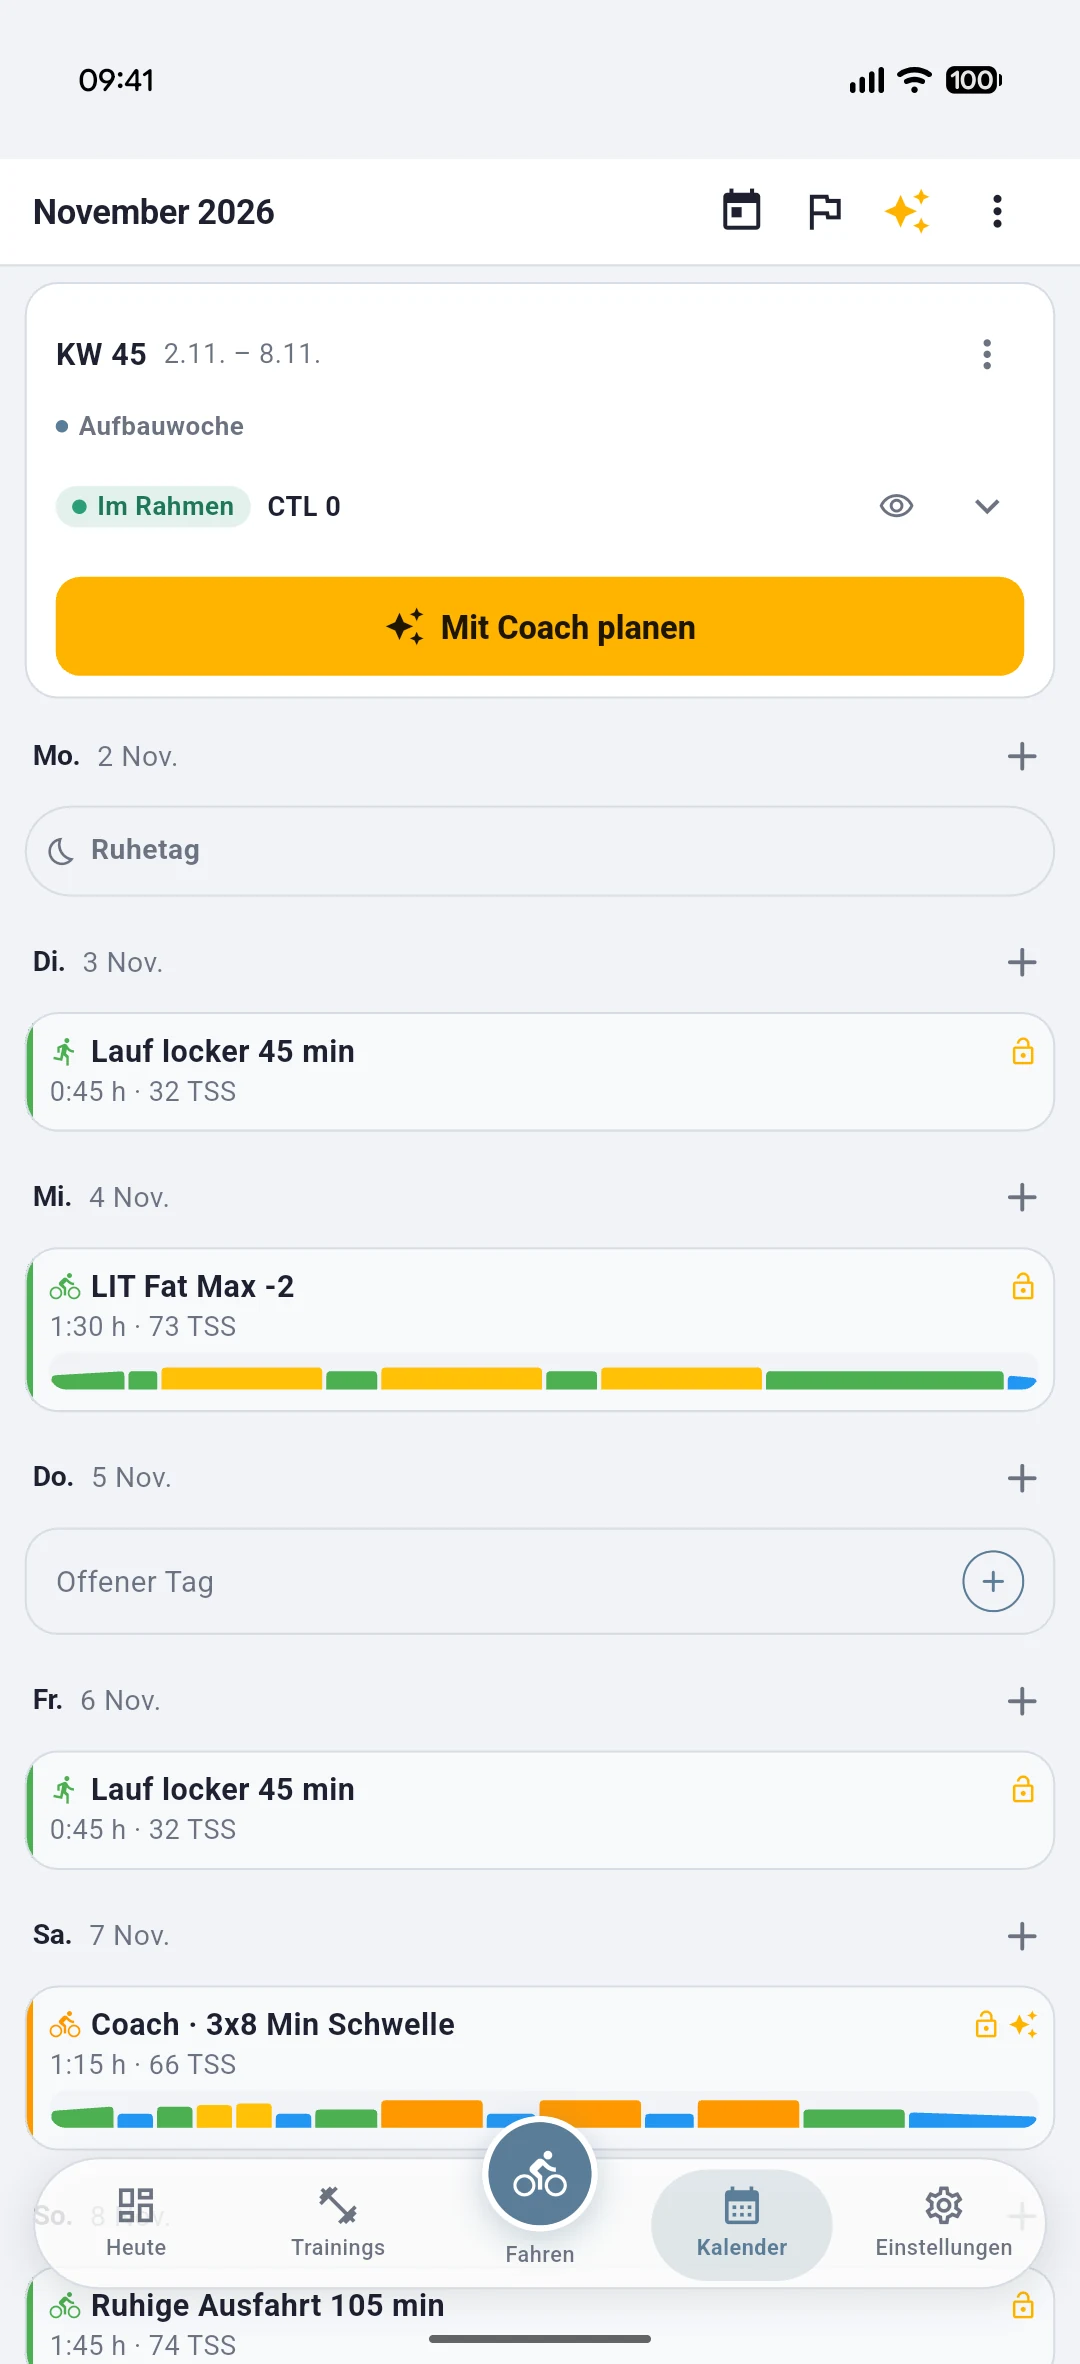
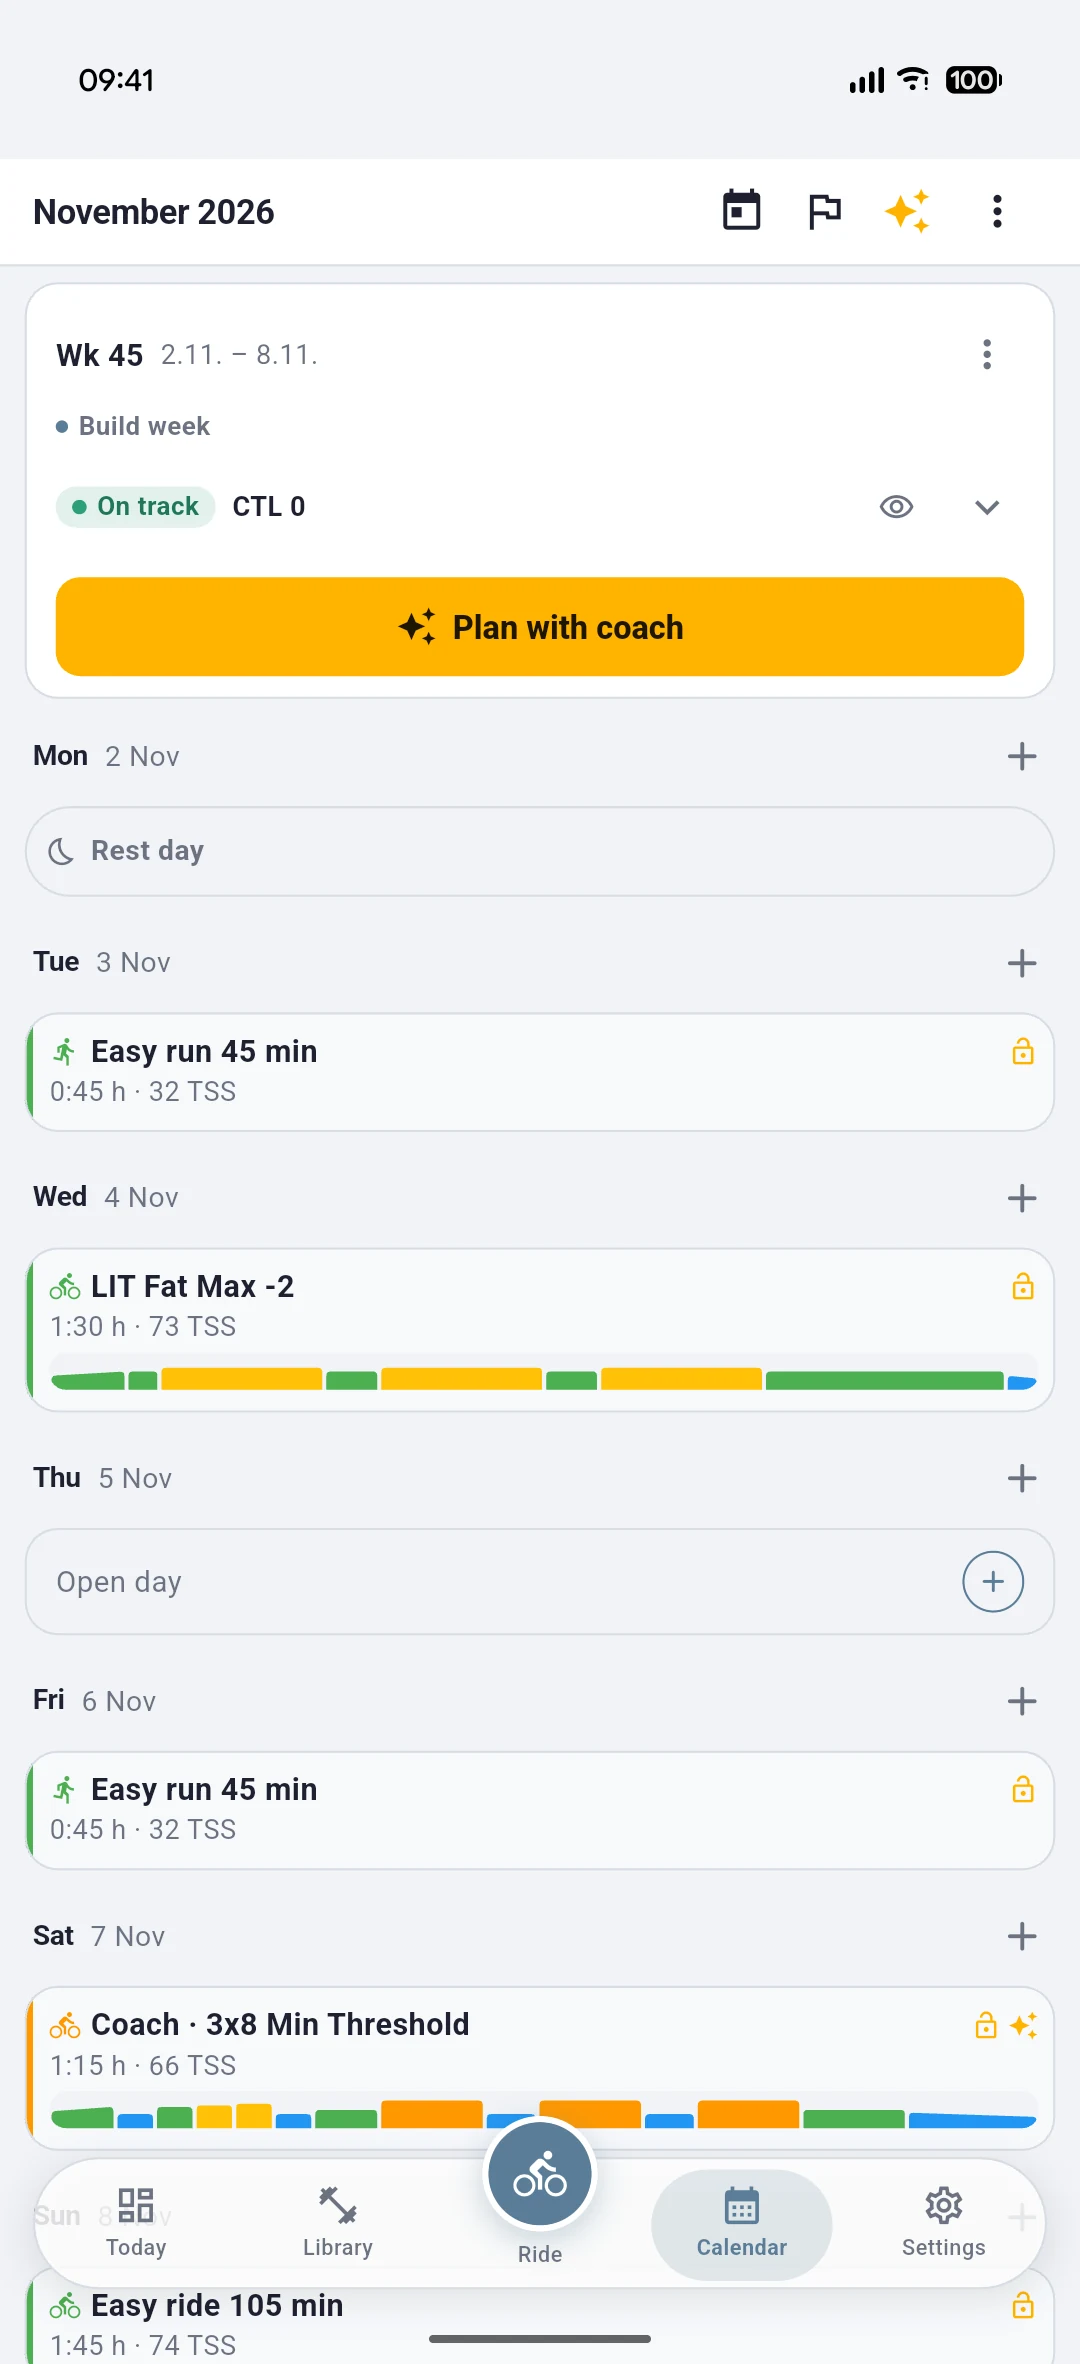
English screenshot set for the hero carousel and features
Taken with the app in English (same screens as the German set). Alt texts
follow the new coach session, planned week and activity screens.

diff --git a/src/i18n/translations.ts b/src/i18n/translations.ts
@@ -59,13 +59,13 @@ export const translations = {
         caption: "Time in Zones: where your training time actually goes, week by week"
       },
       coaching: {
-        label: "AI coaching",
-        alt: "ENDURE AI coaching insights with training analysis and coach tips",
-        caption: "AI Coaching Insights: what worked, what to fix, what to do next"
+        label: "Coach session",
+        alt: "ENDURE session detail of a threshold workout the coach built, with its intervals and a lighter and a harder alternative",
+        caption: "A session the coach built, with a lighter and a harder alternative"
       },
       activity: {
         label: "Activity detail",
-        alt: "ENDURE activity detail with power, heart rate, TSS and efficiency metrics",
+        alt: "ENDURE activity detail with route map, weather along the route and the power and heart rate chart",
         caption: "Every ride in detail: NP, IF, TSS, Pw:Hr and efficiency factor"
       },
       today: {
@@ -86,7 +86,7 @@ export const translations = {
       },
       calendarWeek: {
         label: "Weekly calendar",
-        alt: "ENDURE training calendar with rides, runs and swims synced from Strava"
+        alt: "ENDURE calendar week planned with the coach: easy runs, a threshold session the coach built and the week's load check"
       }
     },
     // Ticker strip. The first item is shown in the accent color.
@@ -622,13 +622,13 @@ export const translations = {
         caption: "Zeit in Zonen: wo deine Trainingszeit wirklich landet, Woche für Woche"
       },
       coaching: {
-        label: "AI Coaching",
-        alt: "ENDURE AI Coaching Insights mit Trainingsanalyse und Coach-Tipps",
-        caption: "AI Coaching Insights: was funktioniert hat, was fehlt, was als Nächstes kommt"
+        label: "Coach-Einheit",
+        alt: "ENDURE Session-Detail einer Schwellen-Einheit, die der Coach gebaut hat, mit ihren Intervallen und einer leichteren und einer härteren Alternative",
+        caption: "Eine Einheit, die der Coach gebaut hat, mit leichterer und härterer Alternative"
       },
       activity: {
         label: "Aktivitätsdetail",
-        alt: "ENDURE Aktivitätsdetail mit Power-, Herzfrequenz-, TSS- und Effizienzwerten",
+        alt: "ENDURE Aktivitätsdetail mit Streckenkarte, Wetter entlang der Strecke und Leistungs- und Herzfrequenzkurve",
         caption: "Jede Einheit im Detail: NP, IF, TSS, Pw:Hr und Efficiency Factor"
       },
       today: {
@@ -649,7 +649,7 @@ export const translations = {
       },
       calendarWeek: {
         label: "Wochenkalender",
-        alt: "ENDURE Trainingskalender mit Rides, Läufen und Schwimmeinheiten aus Strava"
+        alt: "ENDURE Kalenderwoche, mit dem Coach geplant: lockere Läufe, eine Schwellen-Einheit, die der Coach gebaut hat, und die Belastungsprüfung der Woche"
       }
     },
     // Ticker strip. Der erste Eintrag erscheint in der Akzentfarbe.

diff --git a/src/utils/appShots.ts b/src/utils/appShots.ts
@@ -1,9 +1,8 @@
 /**
  * Folder of the phone screenshots (hero carousel, features, guidance) per
- * language. Each language gets its own set, taken with the app in that
- * language. Until the English set exists, English pages keep the previous
- * set in /assets/app/.
+ * language. Each language has its own set, taken with the app in that
+ * language.
  */
 export function appShotDir(lang: 'en' | 'de'): string {
-  return lang === 'de' ? '/assets/app/de' : '/assets/app';
+  return `/assets/app/${lang}`;
 }
